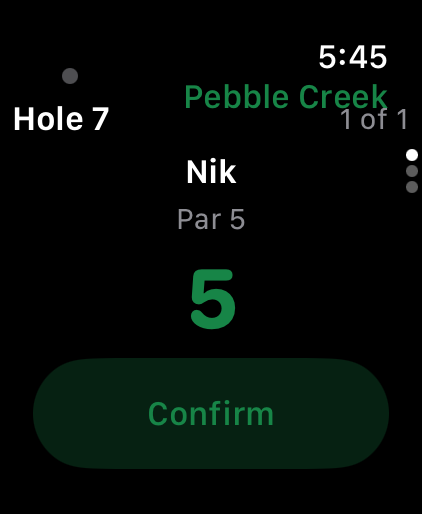
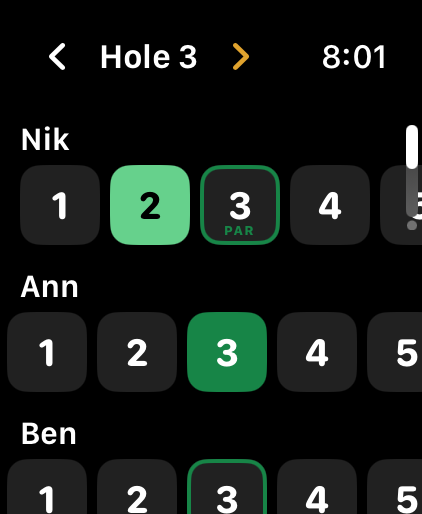
Recapture the watch App Store screenshots
The one watch screenshot in the listing showed the old hole screen, which no
longer exists. Recaptured on Apple Watch Ultra 3 — which renders at exactly
the required 422 x 514 — and added a standings shot alongside it.

The scorecard and end-of-round review are still uncaptured: the watch
simulator's page swipe stops responding after a couple of transitions, so
neither page could be reached. Noted in the submission doc as a tooling
limit rather than an app one.

Also records what the watch can and cannot do without the phone, since the
answer is "it can start and repeat rounds, but not bootstrap an empty store".

diff --git a/docs/app-store/submission.md b/docs/app-store/submission.md
@@ -241,13 +241,21 @@ framing. Apple auto-scales the 6.9" set to smaller iPhones, so no other iPhone s
 
 ### Apple Watch — 422 × 514 (required, since the watch app ships)
 
+Captured on Apple Watch Ultra 3, which renders at exactly the required size.
+
 | Order | File | Shows |
 |---|---|---|
-| 1 | `watch/w01-hole-entry.png` | Entering a score on the wrist |
+| 1 | `watch/w01-hole-entry.png` | The hole screen — every player on one card, each with their own score strip, par marked on the scale |
+| 2 | `watch/w02-standings.png` | Live standings against par, mid-round |
 
-Apple requires only one; more can be added. I could only capture one reliably — the tooling
-wouldn't send input to the watch simulator, so the scorecard and standings views aren't captured.
-Worth adding by hand if you want a fuller watch story.
+Apple requires only one, so this is sufficient. Two views are still uncaptured: the scorecard page
+and the end-of-round review. The watch simulator's page swipe stops responding after a couple of
+transitions, so neither could be reached — this is simulator input flakiness, not an app problem;
+both work when driven by hand. Worth grabbing on a real watch if you want a fuller story, since the
+review screen is where the round gets finished.
+
+**Both files were recaptured on 2026-09-06** and show the rebuilt hole screen. Any older copy shows
+UI that no longer exists.
 
 ---
 
@@ -270,7 +278,7 @@ xcodebuild test -project RoundPlay.xcodeproj -scheme RoundPlay \
 cd Packages/RoundPlayEngine && swift test
 ```
 
-Currently 19 app tests and 116 engine tests, all passing.
+Currently 19 app tests, 116 engine tests and 6 data tests, all passing.
 
 ---
 
@@ -294,3 +302,6 @@ Currently 19 app tests and 116 engine tests, all passing.
   phone-sized type and a third of the screen empty. iPad ships when it has a layout of its own.
 - **Solo mode on the watch.** The watch app keeps its own quick-start flow and doesn't know about
   solo rounds.
+- **Starting a round on a watch with no phone data.** The watch can start a round on its own, and
+  can repeat the last one with the same group, but it can only use courses and players already
+  synced from the phone — with an empty store it says "No courses yet. Add one on your phone."
